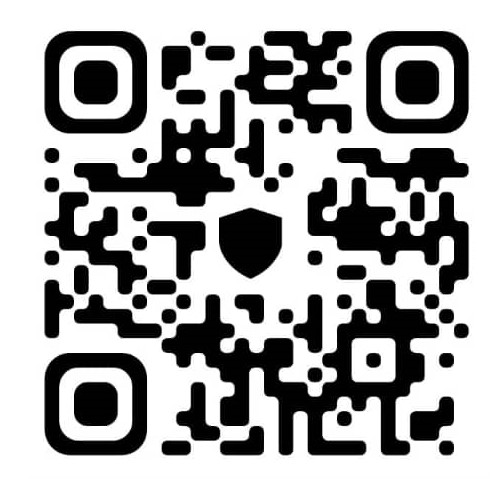
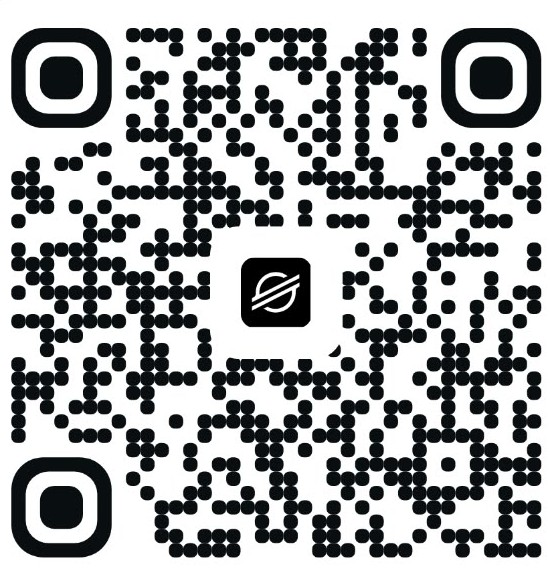
update wallet addresses

diff --git a/src/data/index.js b/src/data/index.js
@@ -321,7 +321,7 @@ export const paymentGateways = [
     id: "ripple",
     qrCode: xrpQRCode,
     icon: xrpIcon,
-    walletAddress: "r9VvmZmL7VASmBb8p3ByjnjxdKJ62BQme1",
+    walletAddress: "rL1LpUZvVn9XdE1vJ3Ck8b5chKg7JRMpn1",
   },
   {
     type: "XLM",
@@ -329,7 +329,7 @@ export const paymentGateways = [
     id: "stellar",
     qrCode: xlmQRCode,
     icon: xlmIcon,
-    walletAddress: "GDPNUJUQV6KMBEXDEE3M3EHW6IQPFHIF6LWA45IQOG4Q4NIRKSNV2QZ5",
+    walletAddress: "GDCUQAYL3YGFHDBIDWA3NS2QR45WD6K6CWVVZC32XPTJ3VXXDU2JBIZ4",
   },
   {
     type: "ethereum",
